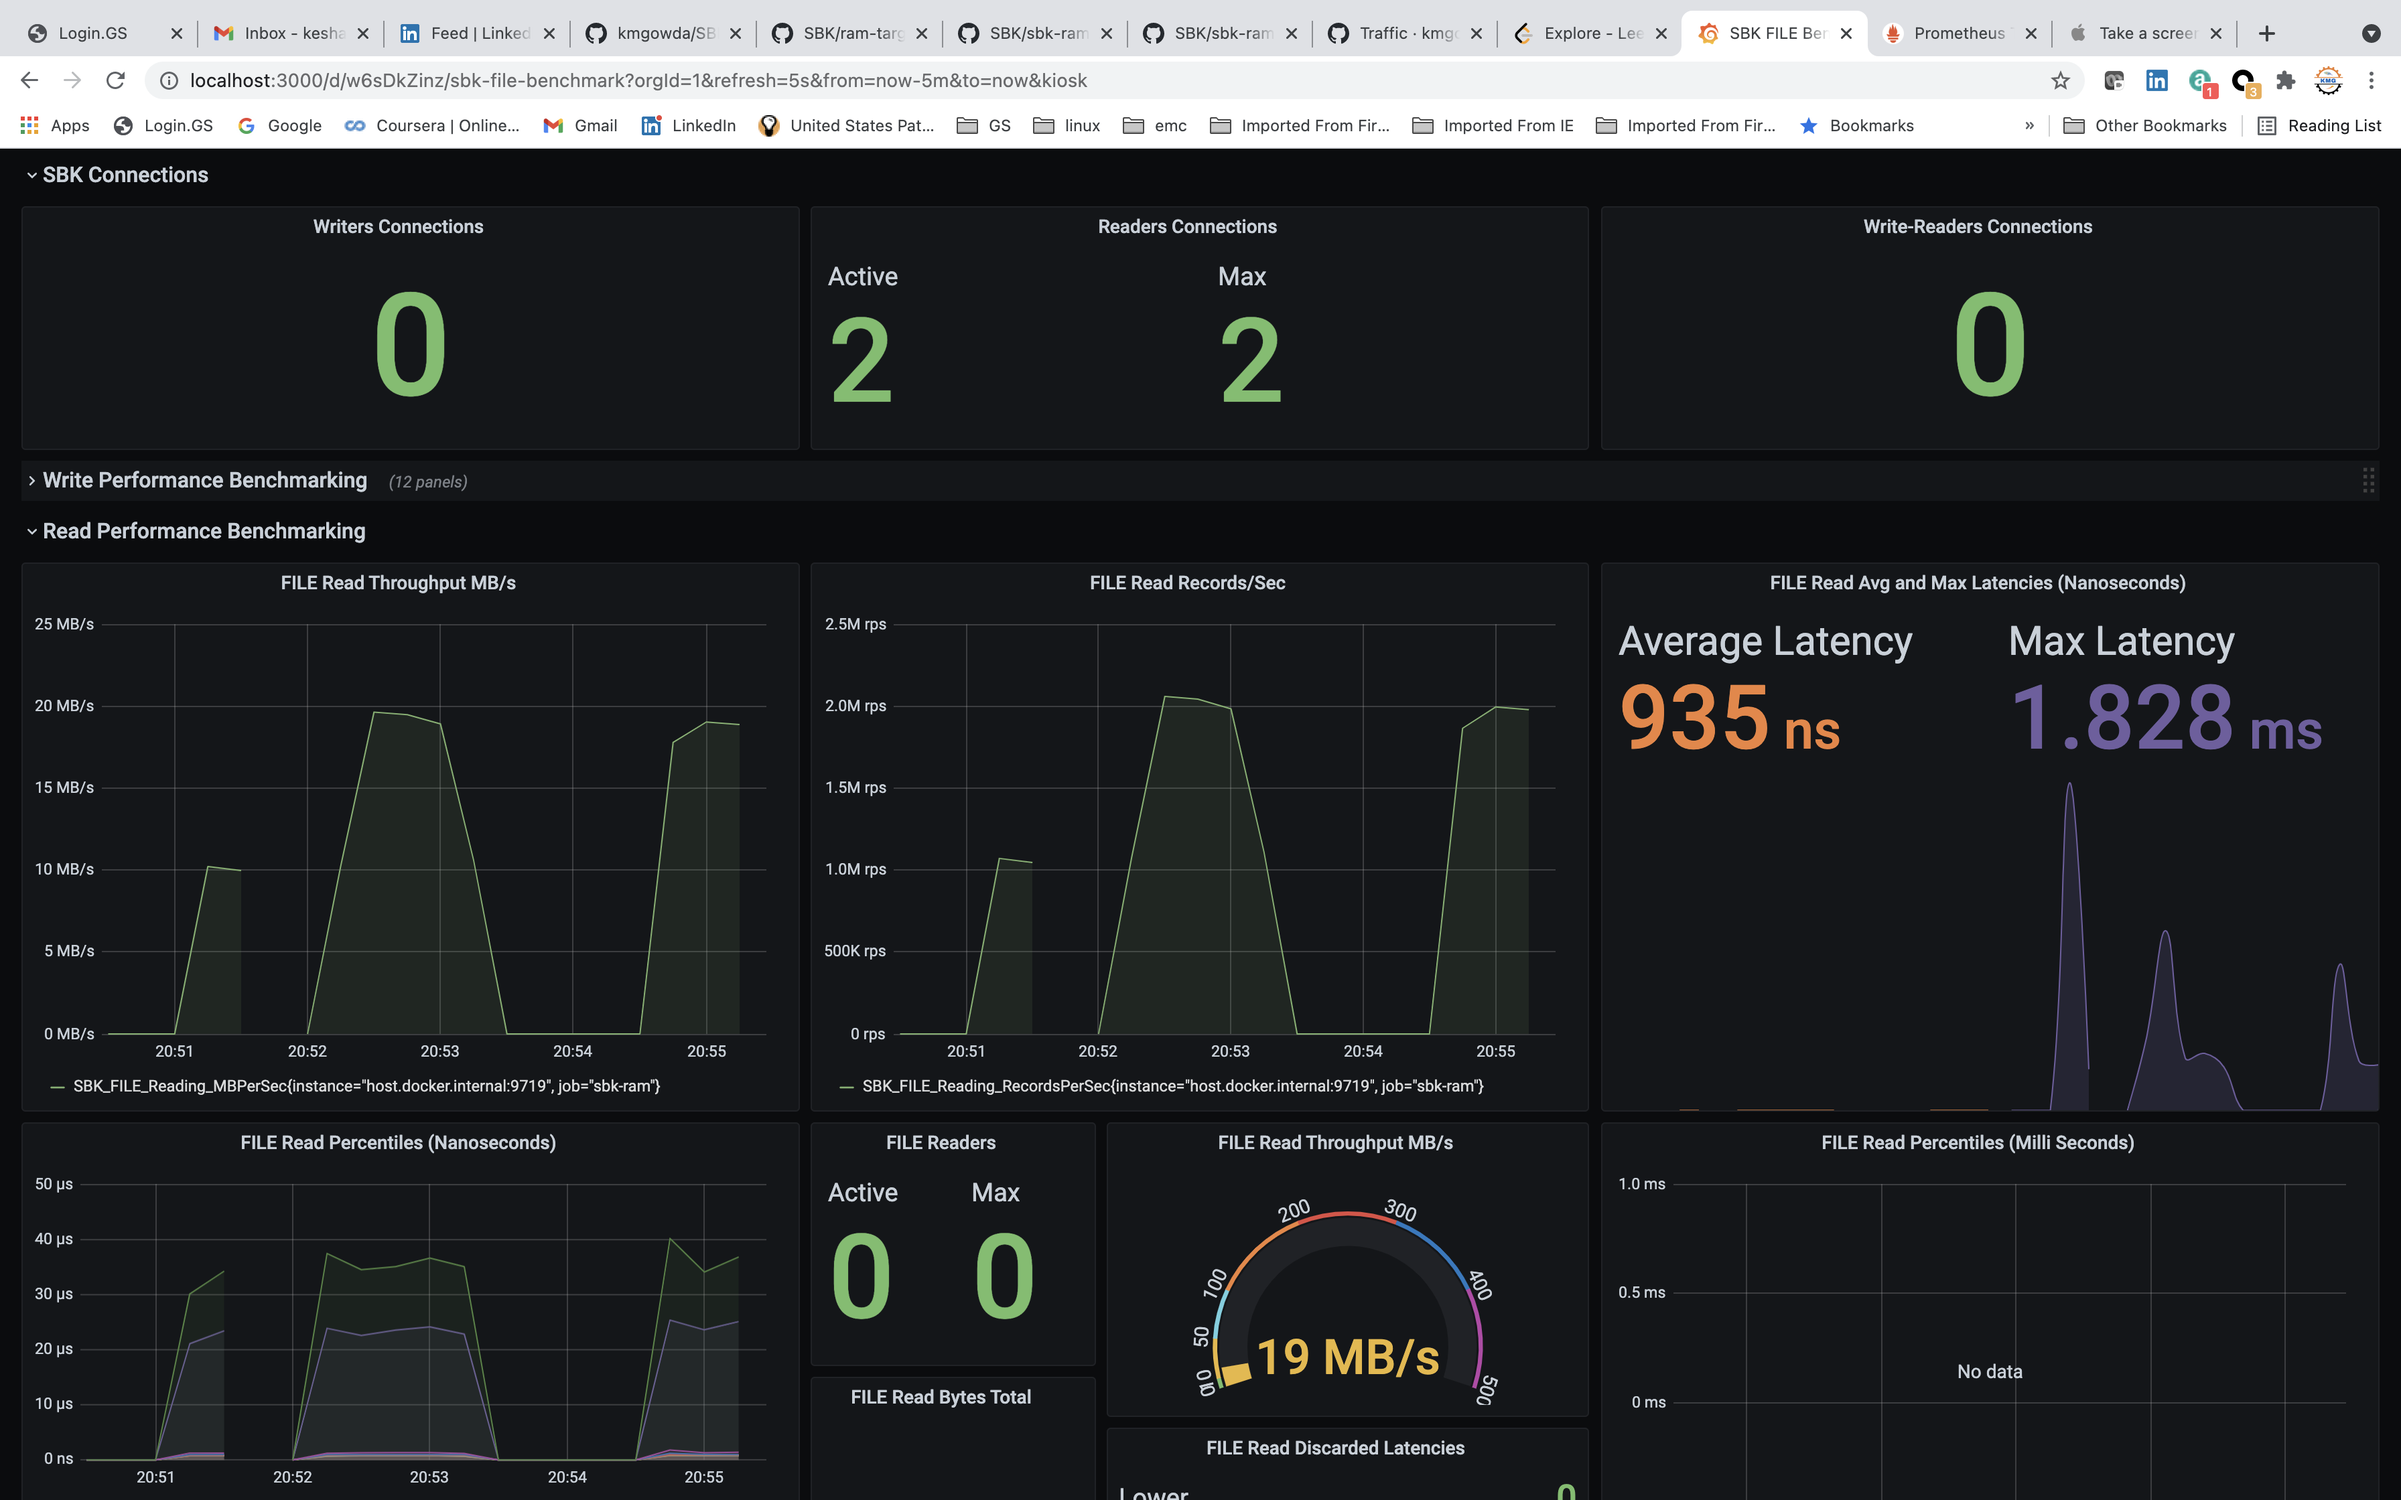
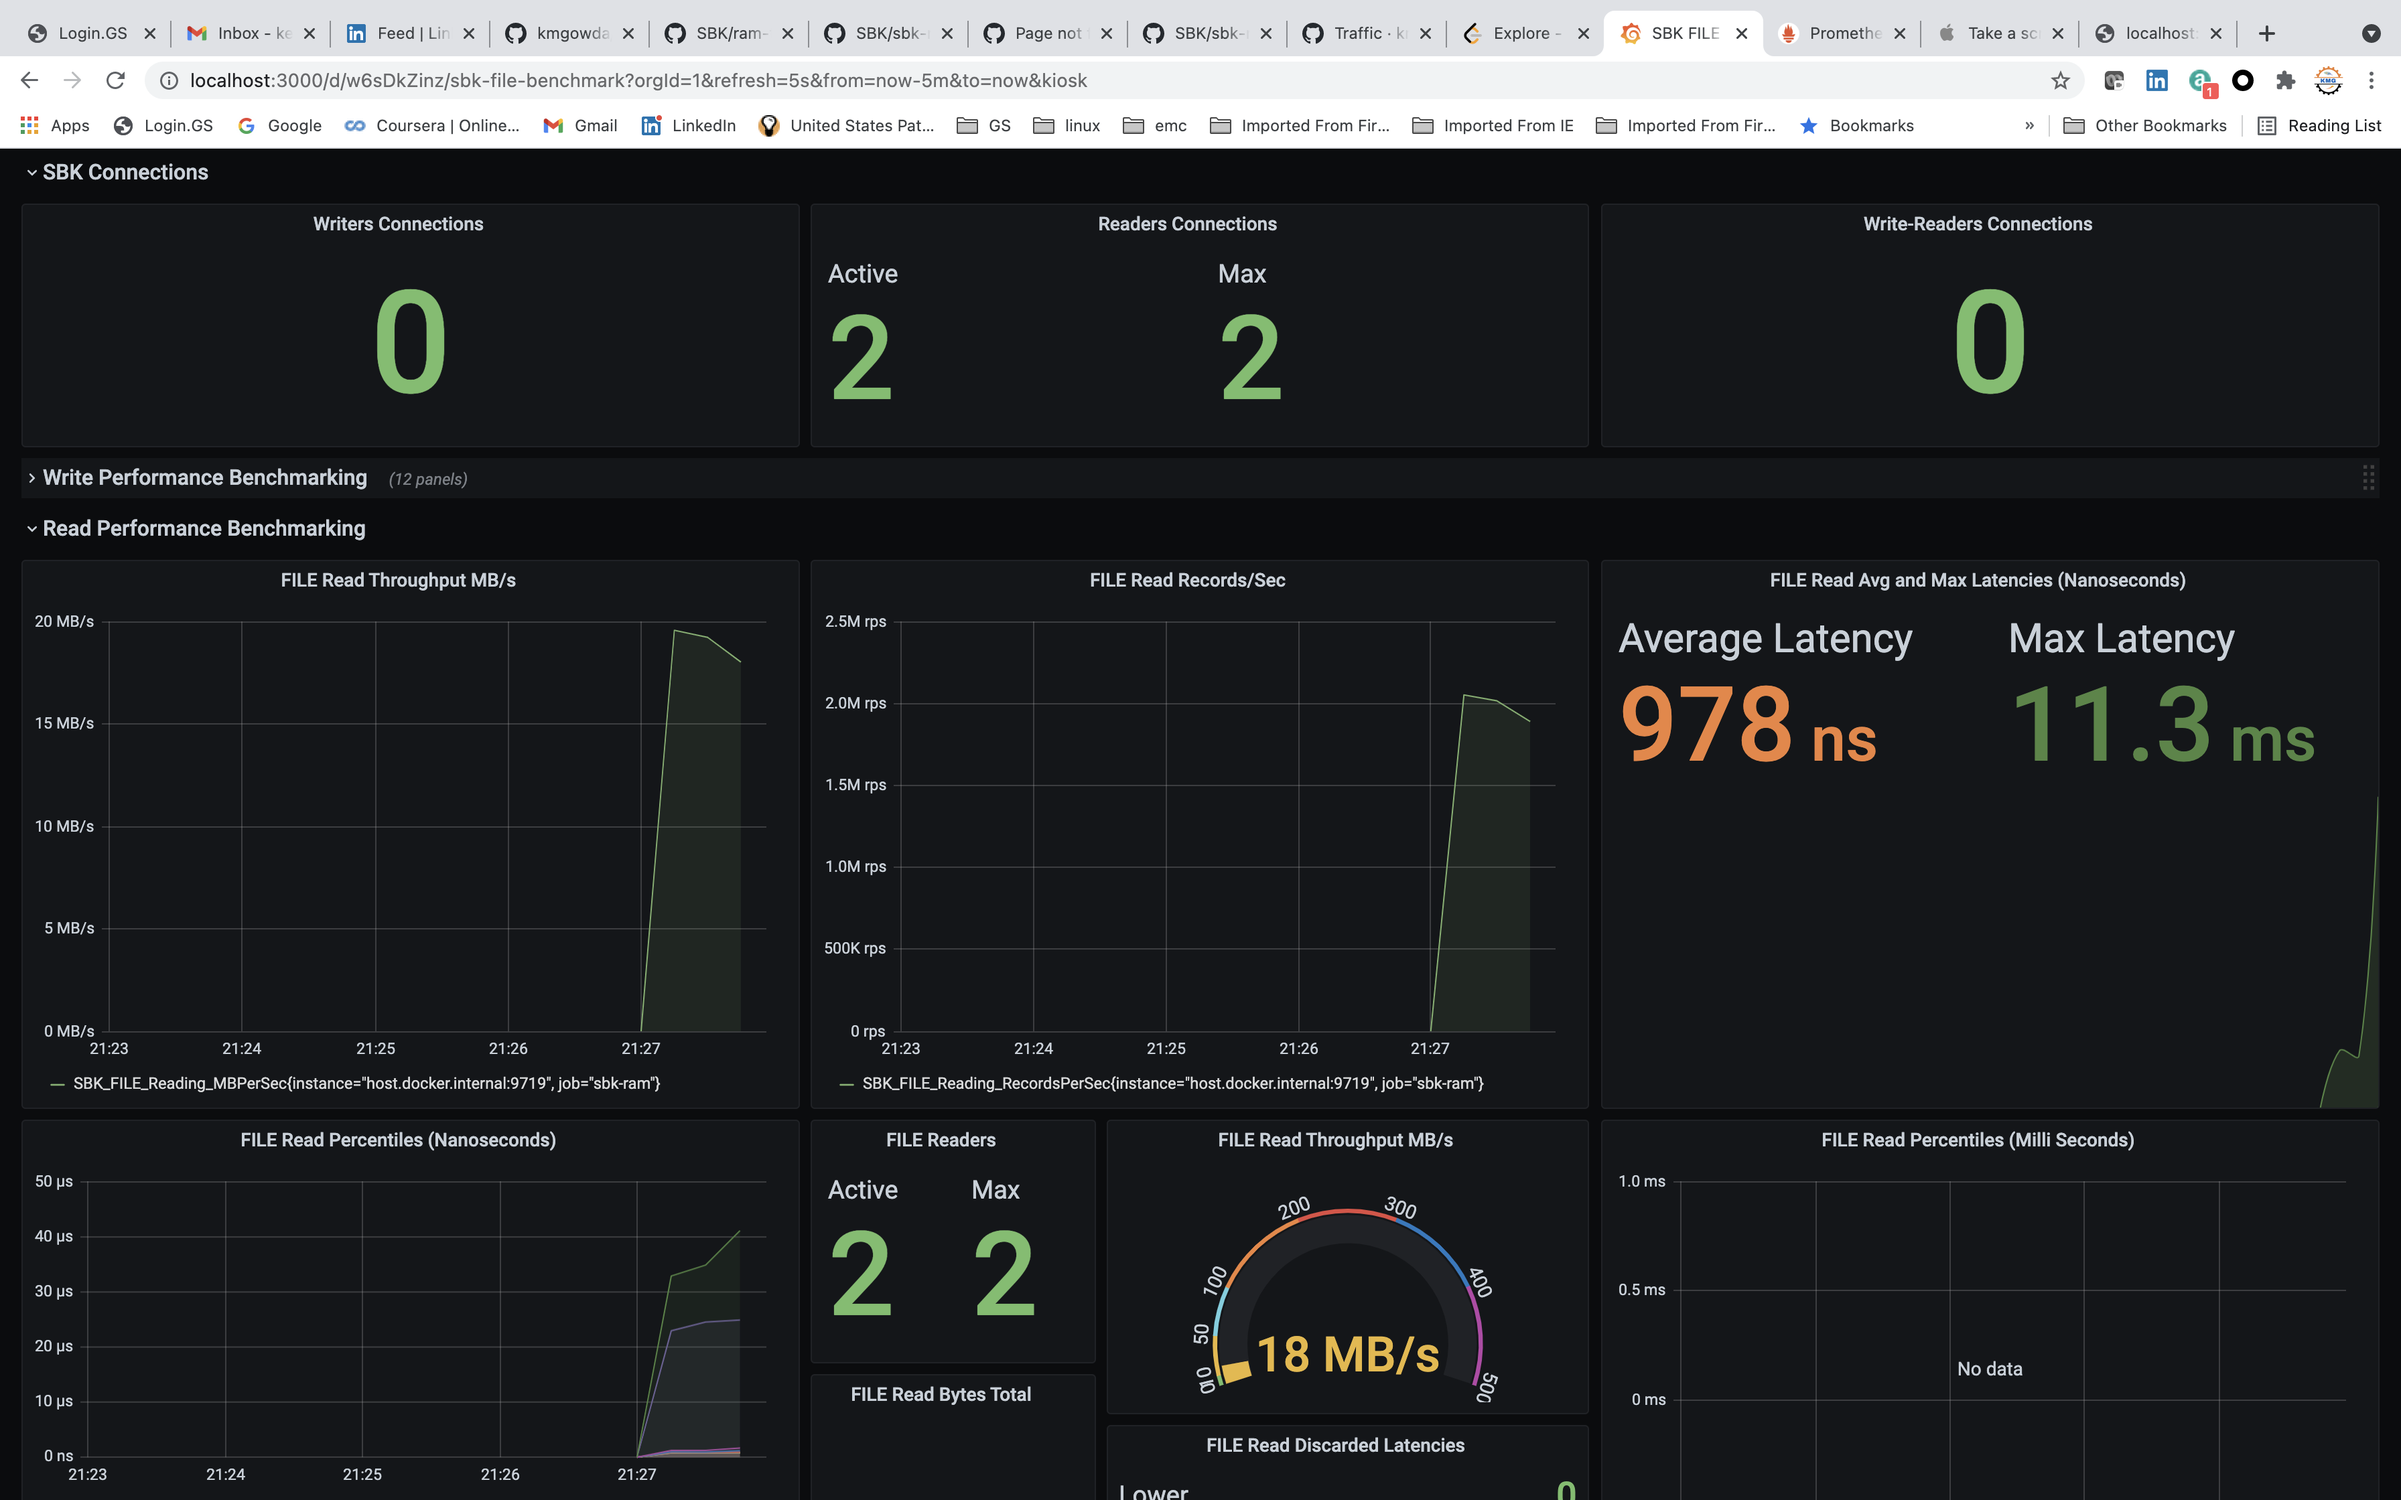
Update the readers and writers count for SBK-RAM.

diff --git a/sbk-ram/src/main/java/io/sbk/ram/impl/SbkRamPrometheusLogger.java b/sbk-ram/src/main/java/io/sbk/ram/impl/SbkRamPrometheusLogger.java
@@ -124,20 +124,35 @@ public class SbkRamPrometheusLogger extends SbkPrometheusLogger implements SetRW
     @Override
     public void setWriters(int val) {
         writers.set(val);
+        if (prometheusServer != null) {
+            prometheusServer.setWriters(val);
+        }
     }
 
     @Override
     public void setMaxWriters(int val) {
         maxWriters.set(val);
+        if (prometheusServer != null) {
+            prometheusServer.setMaxWriters(val);
+        }
+
     }
 
     @Override
     public void setReaders(int val) {
         readers.set(val);
+        if (prometheusServer != null) {
+            prometheusServer.setReaders(val);
+        }
+
     }
 
     @Override
     public void setMaxReaders(int val) {
         maxReaders.set(val);
+        if (prometheusServer != null) {
+            prometheusServer.setMaxReaders(val);
+        }
+
     }
 }
